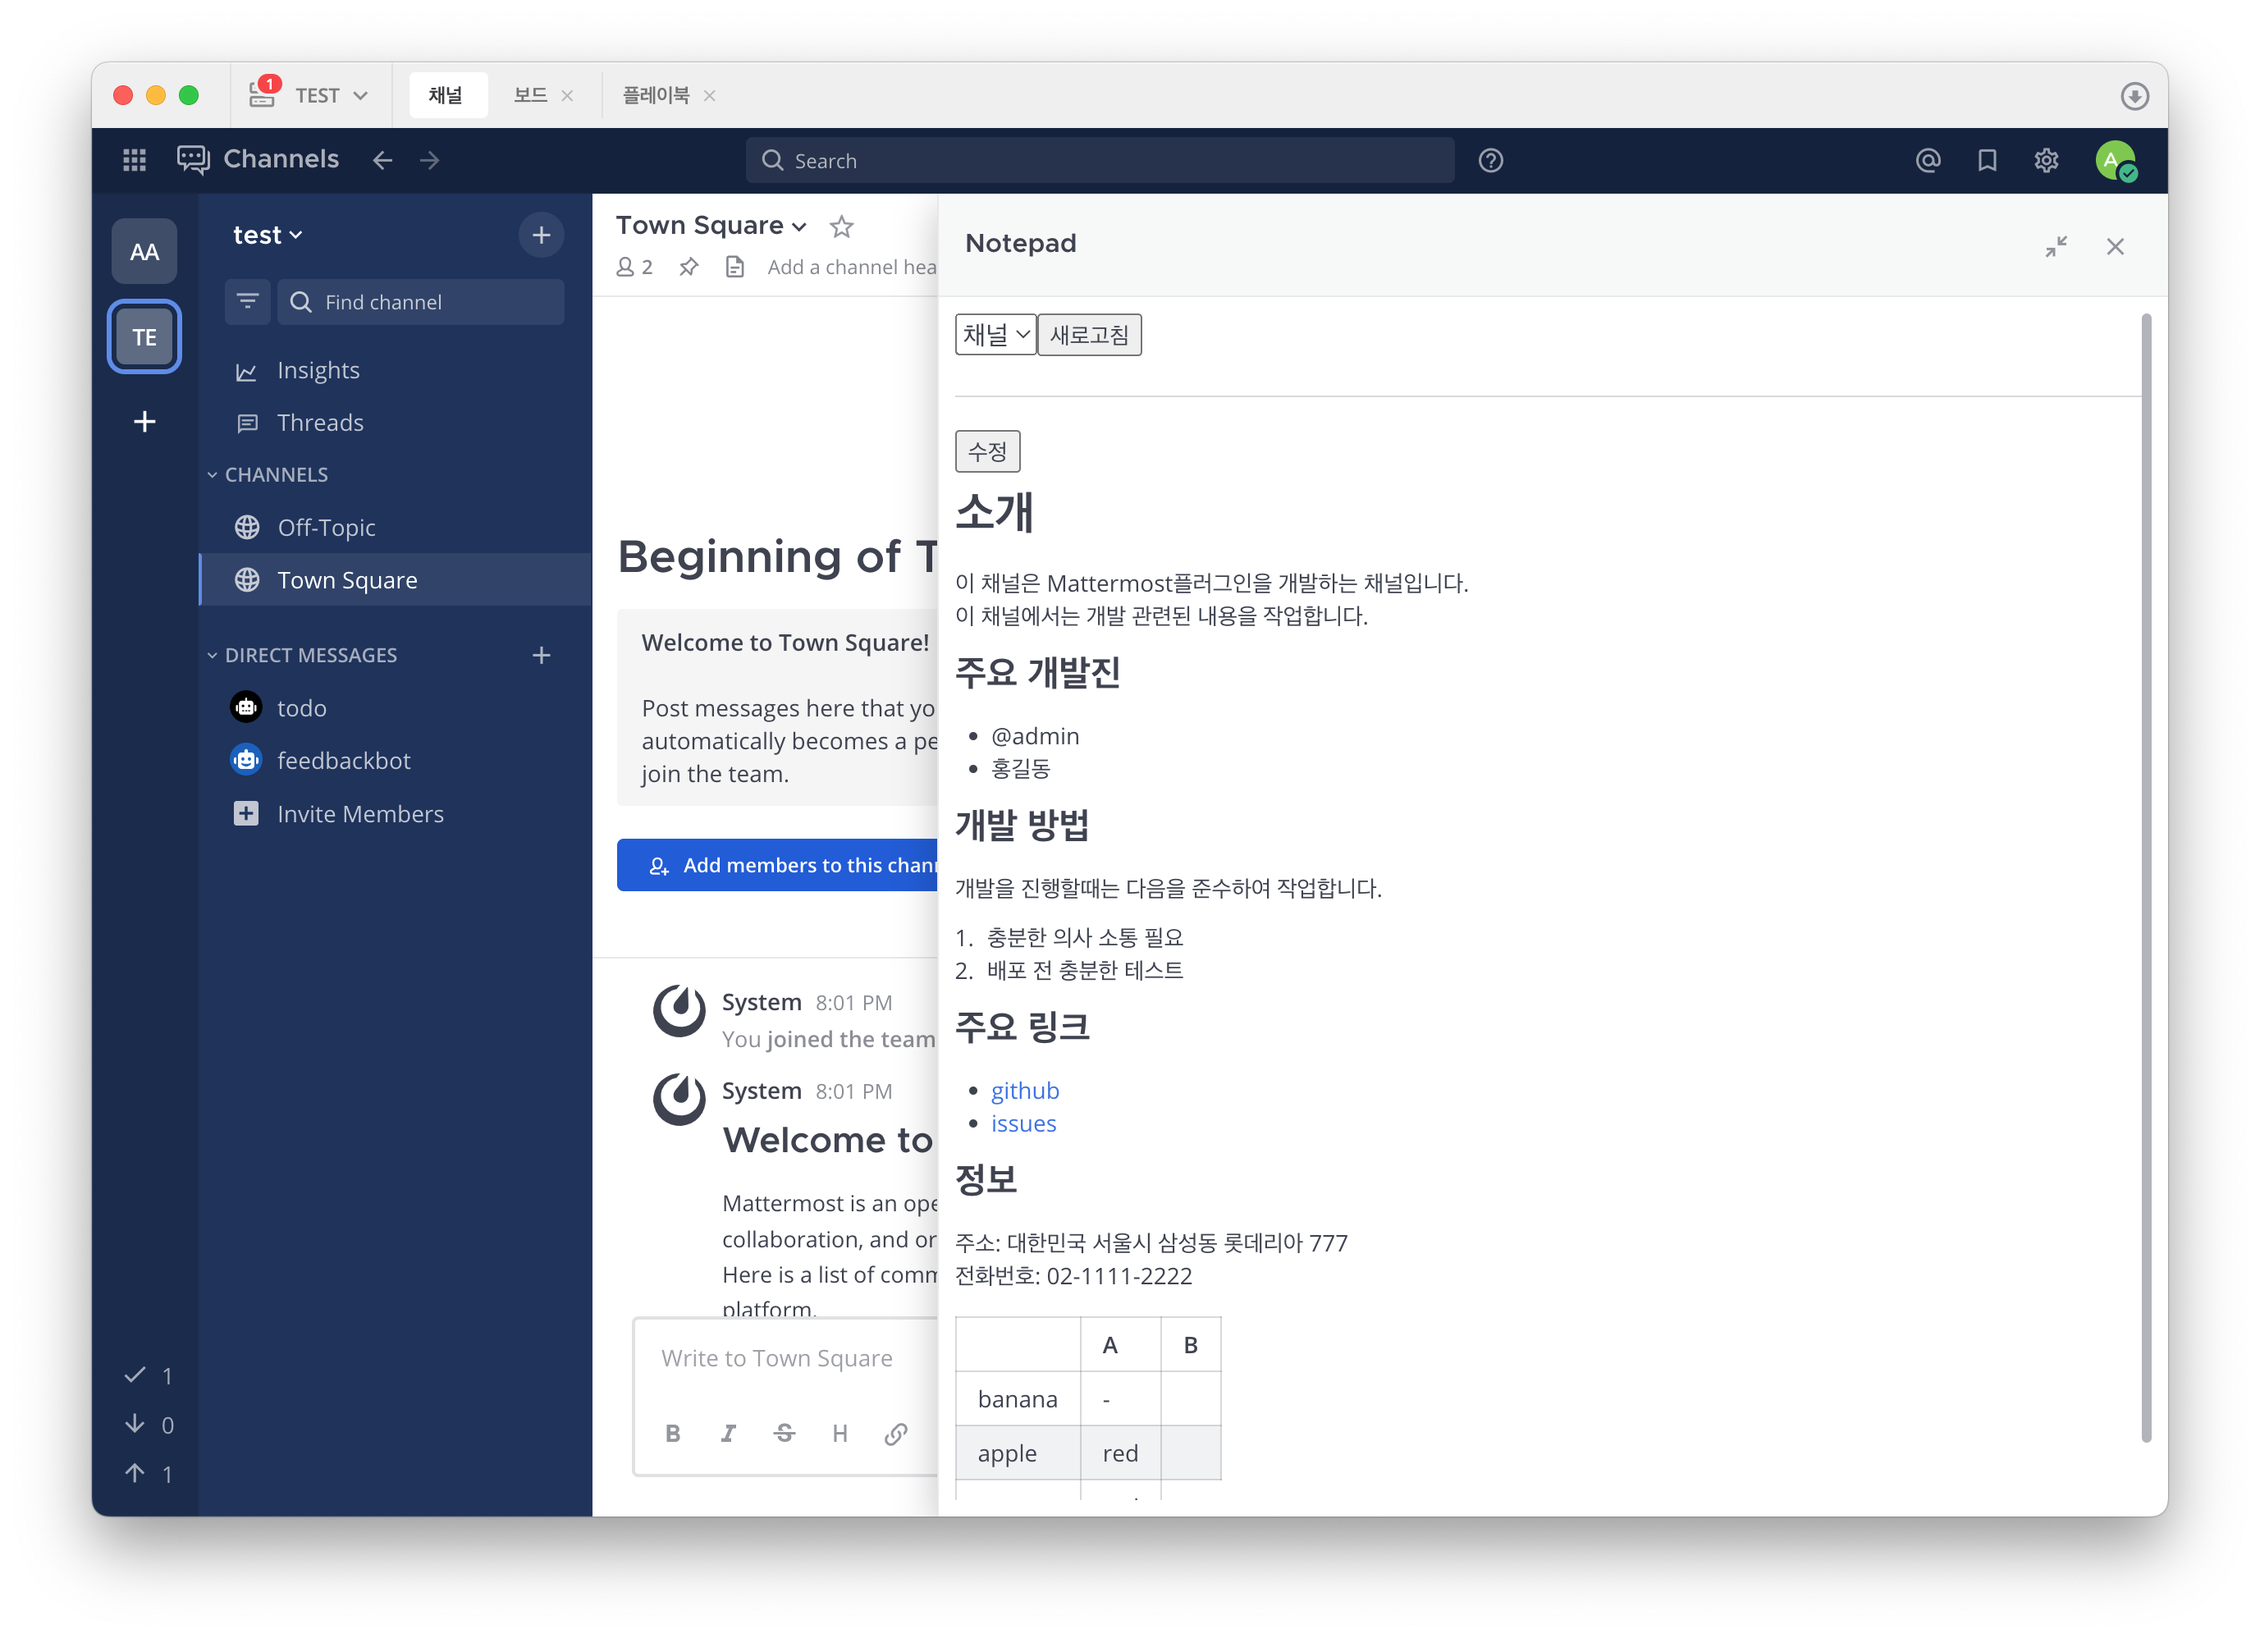
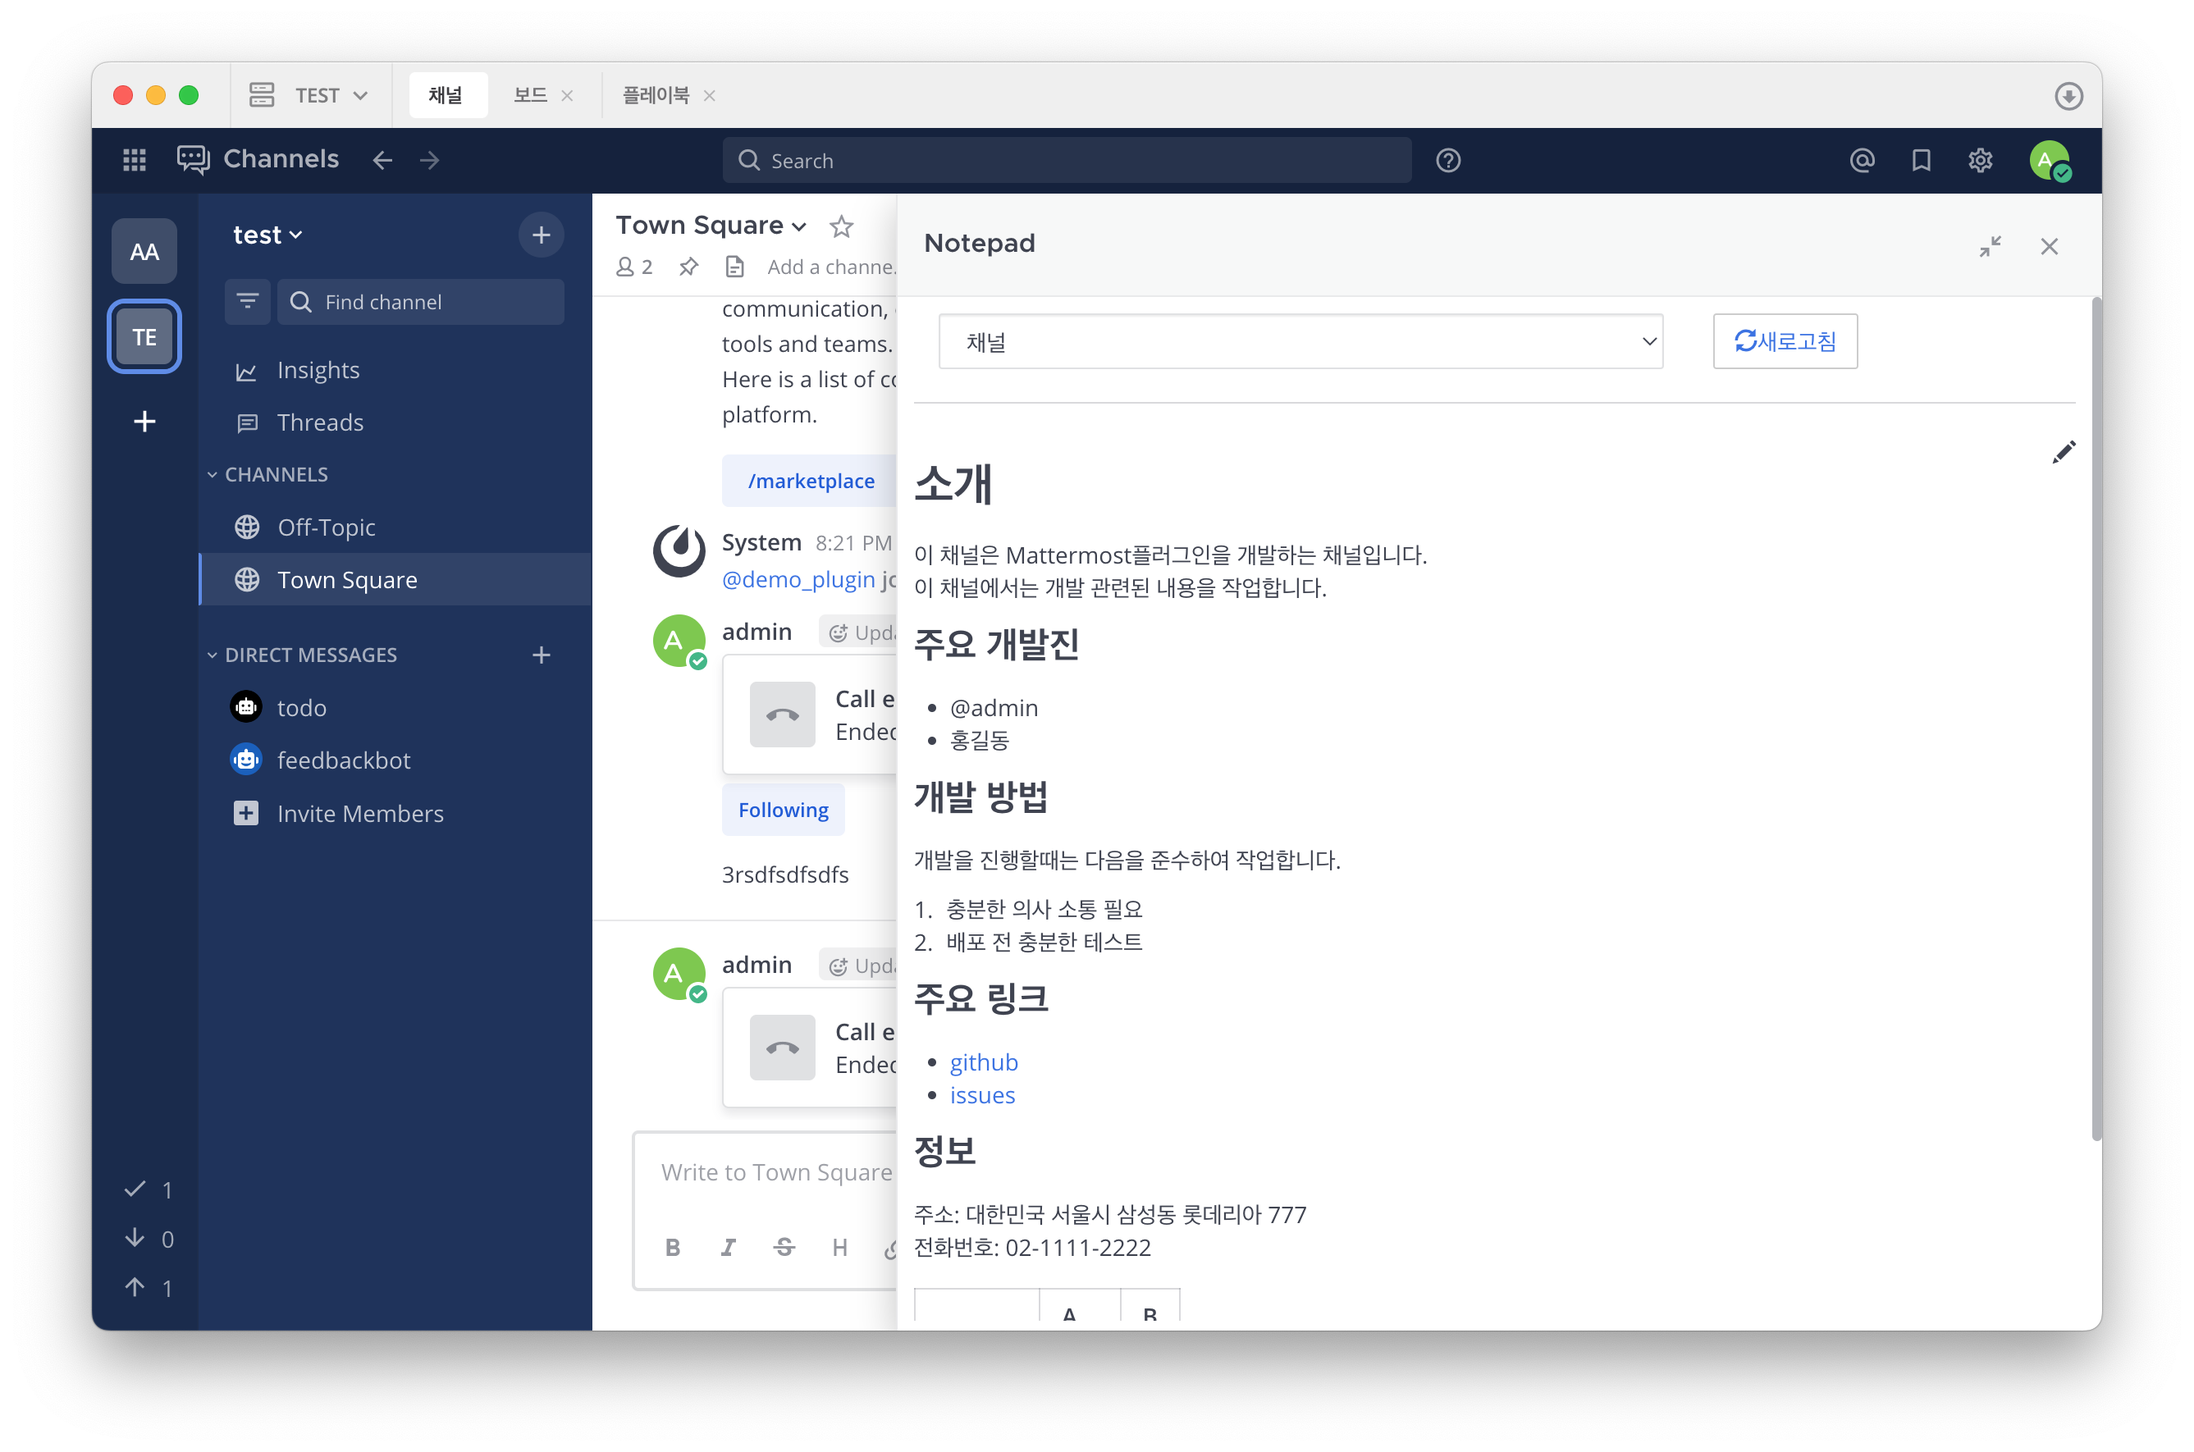
bootstrap 디자인 적용

diff --git a/webapp/src/components/right_hand_sidebar/body/BodyComponents.tsx b/webapp/src/components/right_hand_sidebar/body/BodyComponents.tsx
@@ -39,7 +39,7 @@ const BodyComponents = ({response, selectBox}: Props) => {
         }
     }, []);
 
-    const handleModifyClick = useCallback((event: React.MouseEvent<HTMLButtonElement> | undefined): void => {
+    const handleModifyClick = useCallback((event: React.MouseEvent<HTMLSpanElement> | undefined): void => {
         if (event) {
             setEditMode(true);
         }
@@ -67,18 +67,23 @@ const BodyComponents = ({response, selectBox}: Props) => {
     }, [response.channelId, value]);
 
     return (
-        <div className='hsan-body'>
+        <div className='row remove-margin'>
             { showEditButton && (
-                <button
-                    type='button'
-                    onClick={handleModifyClick}
-                >{'수정'}</button>
+                <div className='pull-right'>
+                    <span
+                        className='glyphicon glyphicon-pencil'
+                        aria-hidden='true'
+                        data-toggle='tooltip'
+                        data-placement='left'
+                        title='수정'
+                        onClick={handleModifyClick}
+                    />
+                </div>
             ) }
             {editMode && (
-                <div
-                    className='body-contents'
-                >
+                <>
                     <TextareaAutosize
+                        className='form-control'
                         style={{
                             width: '100%',
                         }}
@@ -87,20 +92,25 @@ const BodyComponents = ({response, selectBox}: Props) => {
                         onChange={handleValueChange}
                     />
                     <hr/>
-                    <button
-                        type='button'
-                        onClick={handleCancelClick}
-                    >{'취소'}</button>
-                    <button
-                        type='button'
-                        onClick={handleSaveClick}
-                    >{'저장'}</button>
-                </div>
+                    <div className='row text-center remove-margin'>
+                        <button
+                            type='button'
+                            className='btn btn-secondary'
+                            onClick={handleCancelClick}
+                        >{'취소'}</button>
+                        <button
+                            type='button'
+                            className='btn btn-primary'
+                            onClick={handleSaveClick}
+                        >{'저장'}</button>
+
+                    </div>
+                </>
             )}
             {!editMode && (
-                <div className='body-contents'>
+                <>
                     {PostUtils.messageHtmlToComponent(PostUtils.formatText(value))}
-                </div>
+                </>
             )}
         </div>
     );

diff --git a/webapp/src/components/right_hand_sidebar/header/HeaderComponents.tsx b/webapp/src/components/right_hand_sidebar/header/HeaderComponents.tsx
@@ -15,18 +15,28 @@ const HeaderComponents = ({
     console.log('hsan header components rednering');
 
     return (
-        <div className='hsan-header' >
-            <div className='header-left'>
-                <select onChange={handleSelectBoxChange}>
+        <div className='row remove-margin'>
+            <div className='col-xs-8'>
+                <select
+                    className='form-control'
+                    onChange={handleSelectBoxChange}
+                >
                     <option value='channel'>{'채널'}</option>
                     <option value='common'>{'공통'}</option>
                 </select>
             </div>
-            <div className='header-right'>
+            <div className='col-xs-4'>
                 <button
                     type='button'
+                    className='btn btn-default'
                     onClick={handleReloadClick}
-                >{'새로고침'}</button>
+                >
+                    <span
+                        className='glyphicon glyphicon-refresh'
+                        aria-hidden='true'
+                    />
+                    {'새로고침'}</button>
+
             </div>
         </div>
     );

diff --git a/webapp/src/components/right_hand_sidebar/style.scss b/webapp/src/components/right_hand_sidebar/style.scss
@@ -1,38 +1,9 @@
-.hsan-right-hand-sidebar-wrapper {
-    margin: 10px;
-    display: flex;
-    flex-direction: column;
-    height: inherit;
-    // overflow: 'scroll';
-    overflow-y: scroll;
-    // background-color: rgb(69, 64, 57);
+.notepad {
+    width: 100%;
+    overflow: scroll;
+    padding: 10px;
+}
 
-    // height: 100vh;
-    // width: 100vh;
-
-    .hsan-header {
-        // background-color: burlywood;
-        height: 30px;
-        // border: red 1px solid;
-        // width: 100%;
-    }
-
-    .header-left {
-        float: left;
-    }
-
-    .header-right {
-
-    }
-
-    .hsan-body {
-        // background-color: rgb(245, 155, 194);
-        // border: red 1px solid;
-        overflow: scroll;
-    }
-
-    .body-contents {
-        // background-color: rgb(155, 245, 190);
-        // width: 100%;
-    }
+.remove-margin {
+    margin: 0px;
 }

diff --git a/webapp/src/components/right_hand_sidebar/index.tsx b/webapp/src/components/right_hand_sidebar/index.tsx
@@ -43,11 +43,9 @@ const RHSView = () => {
     }, [reload]);
 
     return (
-        <div
-            className='hsan-right-hand-sidebar-wrapper'
-        >
+        <div className='notepad container-fluid'>
             {response && (
-                <div>
+                <>
                     <HeaderComponents
                         handleSelectBoxChange={handleSelectBoxChange}
                         handleReloadClick={handleReloadClick}
@@ -58,7 +56,7 @@ const RHSView = () => {
                         response={response}
                     />
 
-                </div>
+                </>
             )}
         </div>
     );
